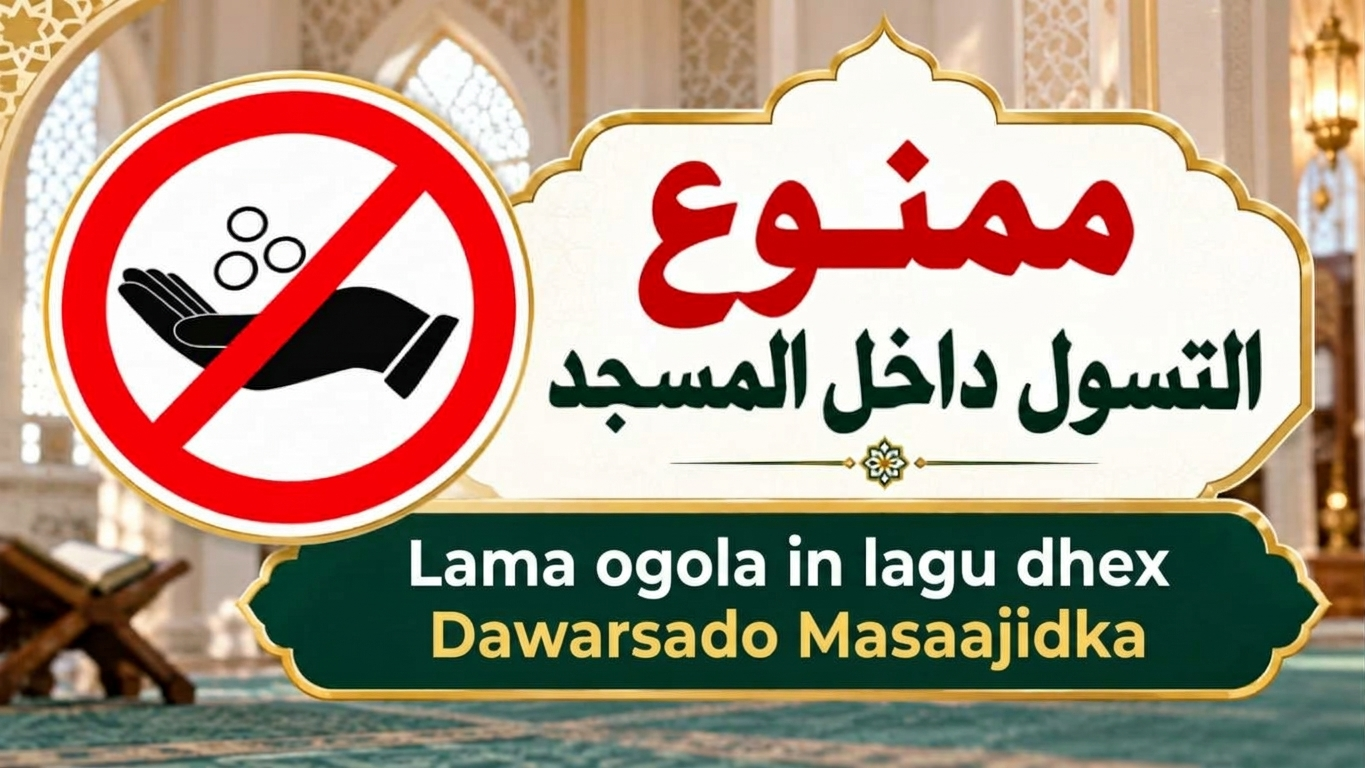
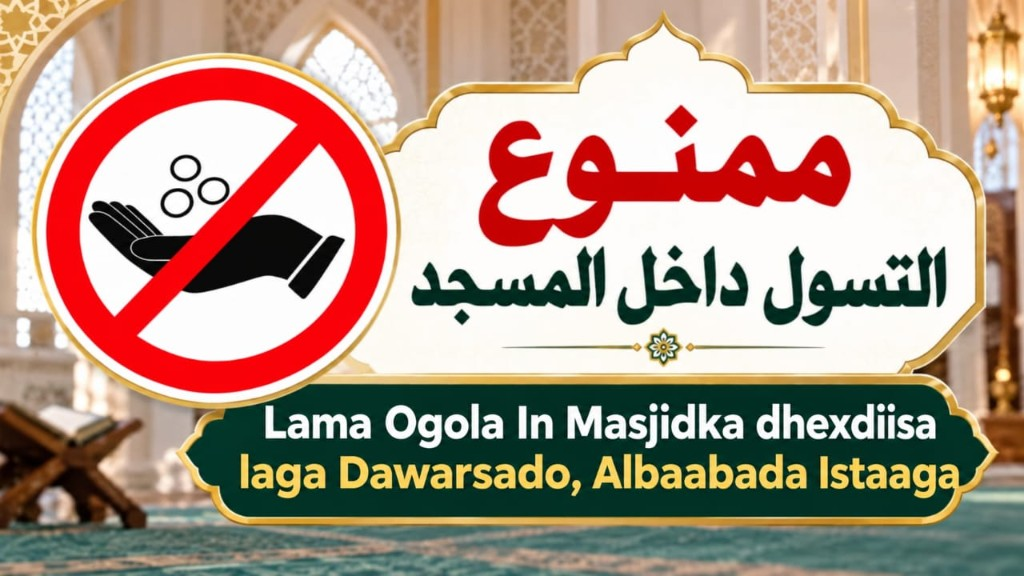
Show the corrected salah poster, a proper Arabic Hijri date with Latin numbers, and a button that sets the place from the phone location.

diff --git a/js/app.js b/js/app.js
@@ -388,7 +388,8 @@
         weekday: "long",
         day: "numeric",
         month: "long",
-        year: "numeric"
+        year: "numeric",
+        numberingSystem: "latn"
       }).format(moment);
     } catch (err) {
       var p = partsInHargeisa(moment);
@@ -397,25 +398,103 @@
       var shifted = new Date(moment.getTime() + TZ_HOURS * 3600000);
       gregorian = days[shifted.getUTCDay()] + ", " + p.day + " " + months[p.month - 1] + " " + p.year;
     }
-    var hijri = "";
-    try {
-      hijri = new Intl.DateTimeFormat("en-GB-u-ca-islamic", {
-        timeZone: TZ,
-        day: "numeric",
-        month: "long",
-        year: "numeric"
-      }).format(moment);
-    } catch (err) {
-      hijri = "";
-    }
+    var hijri = formatHijri(moment);
     clearNode(el.dates);
     if (hijri) {
       var bold = document.createElement("b");
-      bold.textContent = /AH/.test(hijri) ? hijri : hijri + " AH";
+      bold.lang = "ar";
+      bold.dir = "rtl";
+      bold.textContent = hijri;
       el.dates.appendChild(bold);
       el.dates.appendChild(document.createElement("br"));
     }
     el.dates.appendChild(document.createTextNode(gregorian));
+  }
+
+  var HIJRI_MONTHS_AR = [
+    "محرم", "صفر", "ربيع الأول", "ربيع الآخر",
+    "جمادى الأولى", "جمادى الآخرة", "رجب", "شعبان",
+    "رمضان", "شوال", "ذو القعدة", "ذو الحجة"
+  ];
+
+  function latinDigits(value) {
+    return String(value).replace(/[٠-٩]/g, function (digit) {
+      return String("٠١٢٣٤٥٦٧٨٩".indexOf(digit));
+    }).replace(/[۰-۹]/g, function (digit) {
+      return String("۰۱۲۳۴۵۶۷۸۹".indexOf(digit));
+    });
+  }
+
+  function hijriLabel(day, month, year) {
+    if (!(day >= 1 && day <= 30) || !(month >= 1 && month <= 12) || !(year > 1300 && year < 1600)) {
+      return "";
+    }
+    return day + " " + HIJRI_MONTHS_AR[month - 1] + " " + year + " هـ";
+  }
+
+  function hijriFromParts(moment) {
+    var locales = [
+      "en-GB-u-ca-islamic-umalqura",
+      "en-u-ca-islamic-umalqura",
+      "en-GB-u-ca-islamic",
+      "en-u-ca-islamic"
+    ];
+    for (var i = 0; i < locales.length; i++) {
+      try {
+        var fmt = new Intl.DateTimeFormat(locales[i], {
+          timeZone: TZ,
+          day: "numeric",
+          month: "numeric",
+          year: "numeric",
+          numberingSystem: "latn"
+        });
+        if (!fmt.formatToParts) continue;
+        var bag = {};
+        fmt.formatToParts(moment).forEach(function (part) {
+          if (part.type !== "literal") bag[part.type] = part.value;
+        });
+        if (!bag.day || !bag.month || !bag.year) continue;
+        if (bag.era && /BC|BCE/i.test(bag.era)) continue;
+        var label = hijriLabel(
+          Number(latinDigits(bag.day)),
+          Number(latinDigits(bag.month)),
+          Number(latinDigits(bag.year))
+        );
+        if (label) return label;
+      } catch (err) {}
+    }
+    return "";
+  }
+
+  function hijriCivil(moment) {
+    var p = partsInHargeisa(moment);
+    var gy = p.year;
+    var gm = p.month;
+    var gd = p.day;
+    var jd =
+      Math.floor((1461 * (gy + 4800 + Math.floor((gm - 14) / 12))) / 4) +
+      Math.floor((367 * (gm - 2 - 12 * Math.floor((gm - 14) / 12))) / 12) -
+      Math.floor((3 * Math.floor((gy + 4900 + Math.floor((gm - 14) / 12)) / 100)) / 4) +
+      gd - 32075;
+    var l = jd - 1948440 + 10632;
+    var n = Math.floor((l - 1) / 10631);
+    l = l - 10631 * n + 354;
+    var j =
+      Math.floor((10985 - l) / 5316) * Math.floor((50 * l) / 17719) +
+      Math.floor(l / 5670) * Math.floor((43 * l) / 15238);
+    l =
+      l -
+      Math.floor((30 - j) / 15) * Math.floor((17719 * j) / 50) -
+      Math.floor(j / 16) * Math.floor((15238 * j) / 43) +
+      29;
+    var m = Math.floor((24 * l) / 709);
+    var d = l - Math.floor((709 * m) / 24);
+    var y = 30 * n + j - 30;
+    return hijriLabel(d, m, y);
+  }
+
+  function formatHijri(moment) {
+    return hijriFromParts(moment) || hijriCivil(moment);
   }
 
   function renderNext(schedule, moment) {
@@ -648,8 +727,6 @@
       "set-name-ar": settings.nameAr,
       "set-method": settings.method,
       "set-asr": settings.asr,
-      "set-lat": settings.lat,
-      "set-lng": settings.lng,
       "set-iq-fajr": settings.iqamah.fajr,
       "set-iq-dhuhr": settings.iqamah.dhuhr,
       "set-iq-asr": settings.iqamah.asr,
@@ -666,12 +743,23 @@
     };
   }
 
+  function placeText(lat, lng, note) {
+    var line = Number(lat).toFixed(4) + ", " + Number(lng).toFixed(4);
+    return note ? note + " (" + line + ")" : "Location for salah times: " + line;
+  }
+
+  function fillPlace(note) {
+    var box = document.getElementById("set-place");
+    if (box) box.textContent = placeText(settings.lat, settings.lng, note);
+  }
+
   function fillForm() {
     var map = fieldMap();
     Object.keys(map).forEach(function (id) {
       document.getElementById(id).value = map[id];
     });
     document.getElementById("set-notice-on").checked = settings.noticesOn !== false;
+    fillPlace();
     renderNoticeEditor();
   }
 
@@ -683,8 +771,8 @@
     var asr = document.getElementById("set-asr").value;
     if (METHODS[method]) next.method = method;
     if (asr === "Hanafi" || asr === "Standard") next.asr = asr;
-    next.lat = clamp(document.getElementById("set-lat").value, next.lat, -90, 90);
-    next.lng = clamp(document.getElementById("set-lng").value, next.lng, -180, 180);
+    next.lat = settings.lat;
+    next.lng = settings.lng;
     next.iqamah.fajr = clamp(document.getElementById("set-iq-fajr").value, next.iqamah.fajr, 0, 180);
     next.iqamah.dhuhr = clamp(document.getElementById("set-iq-dhuhr").value, next.iqamah.dhuhr, 0, 180);
     next.iqamah.asr = clamp(document.getElementById("set-iq-asr").value, next.iqamah.asr, 0, 180);
@@ -994,6 +1082,29 @@
     if (fields.length) fields[fields.length - 1].focus();
   });
   document.getElementById("set-close").addEventListener("click", closeSettings);
+  document.getElementById("set-place-btn").addEventListener("click", function () {
+    var status = document.getElementById("set-place");
+    if (!navigator.geolocation) {
+      fillPlace("Location is not available on this device");
+      return;
+    }
+    status.textContent = "Getting your location…";
+    navigator.geolocation.getCurrentPosition(function (pos) {
+      var next = settingsFrom(settings);
+      next.lat = clamp(pos.coords.latitude, next.lat, -90, 90);
+      next.lng = clamp(pos.coords.longitude, next.lng, -180, 180);
+      saveSettings(next);
+      fillPlace("Location updated");
+    }, function (err) {
+      fillPlace(err && err.code === 1
+        ? "Allow location access, then try again"
+        : "Could not get the location. Try again");
+    }, {
+      enableHighAccuracy: true,
+      timeout: 15000,
+      maximumAge: 0
+    });
+  });
   document.getElementById("set-reset").addEventListener("click", function () {
     var next = defaultSettings();
     next.announcement = settings.announcement;

diff --git a/index.html b/index.html
@@ -93,8 +93,12 @@
           <option value="Hanafi">Hanafi</option>
         </select>
       </label>
-      <label>Latitude <input id="set-lat" inputmode="decimal"></label>
-      <label>Longitude <input id="set-lng" inputmode="decimal"></label>
+      <div class="place">
+        <p class="lead" id="set-place"></p>
+        <div class="actions place-actions">
+          <button type="button" class="primary" id="set-place-btn">Use current location</button>
+        </div>
+      </div>
 
       <h3>Iqamah, minutes after adhan</h3>
       <label>Fajr <input id="set-iq-fajr" type="number" min="0" max="180"></label>

diff --git a/js/athkaar.js b/js/athkaar.js
@@ -11,7 +11,7 @@ var ATHKAAR = (function () {
       english: "O Allah, You are Peace and from You comes peace. Blessed are You, Owner of majesty and honor."
     },
     {
-      lines: ["سُبْحَانَ اللَّهِ  × ٣٣", "الْحَمْدُ لِلَّهِ  × ٣٣", "اللَّهُ أَكْبَرُ  × ٣٣"],
+      lines: ["سُبْحَانَ اللَّهِ  × 33", "الْحَمْدُ لِلَّهِ  × 33", "اللَّهُ أَكْبَرُ  × 33"],
       english: "Glory is to Allah, 33 times. Praise is to Allah, 33 times. Allah is the Greatest, 33 times."
     },
     {

diff --git a/css/screen.css b/css/screen.css
@@ -113,7 +113,9 @@ html, body {
 
 #dates b {
   color: #e3c46b;
-  font-weight: 600;
+  font-family: "Amiri", "Source Sans 3", serif;
+  font-weight: 700;
+  font-size: 36px;
 }
 
 #next {
@@ -743,6 +745,18 @@ input:focus, select:focus, textarea:focus {
 
 .actions.notice-add {
   margin-top: 12px;
+}
+
+.place {
+  grid-column: 1 / -1;
+}
+
+.place .lead {
+  margin: 0 0 12px;
+}
+
+.place-actions {
+  margin-top: 0;
 }
 
 .actions {
